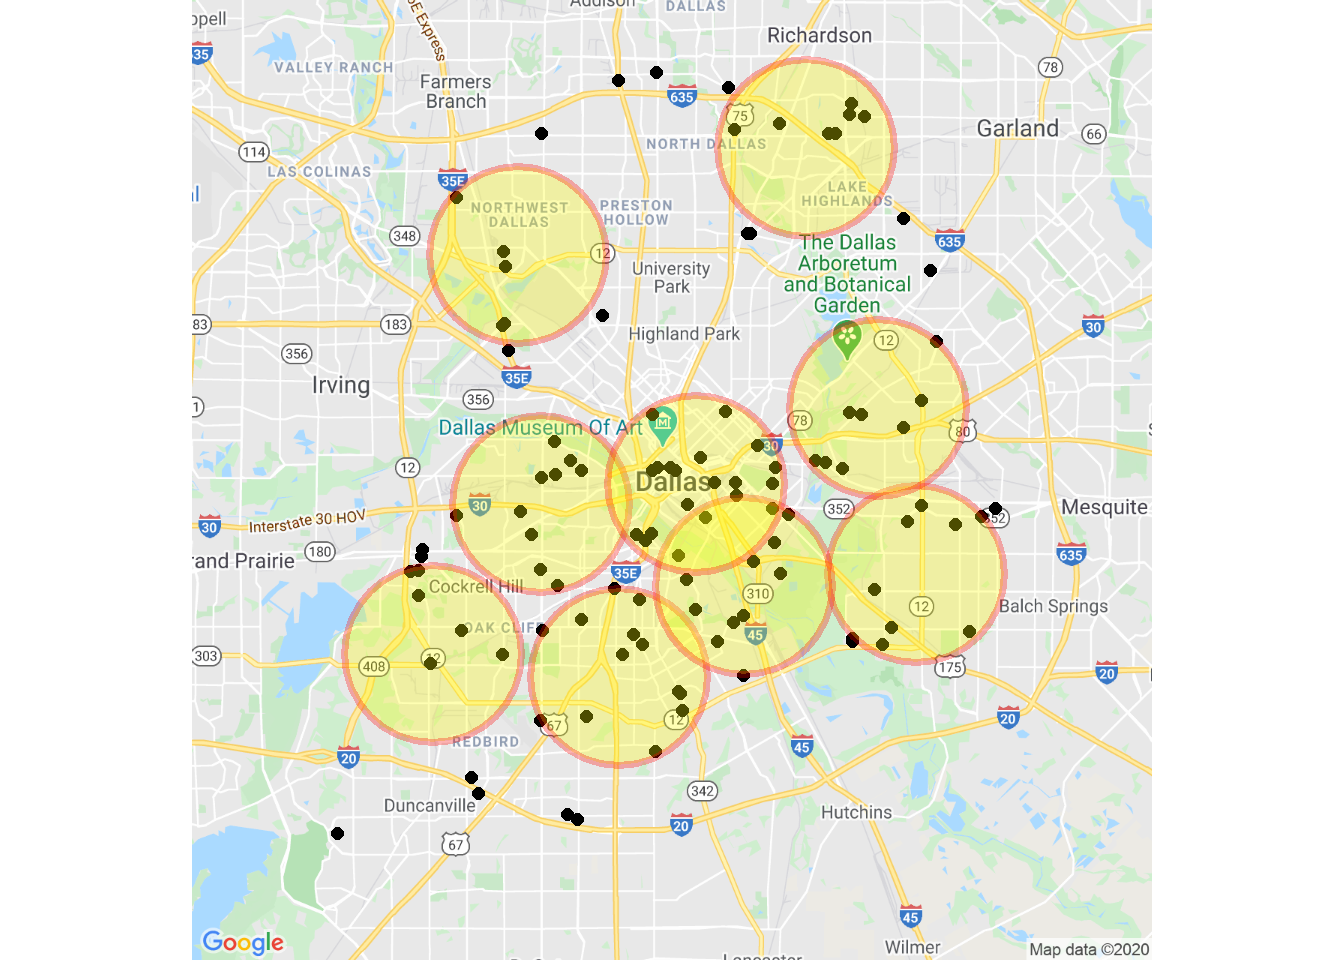
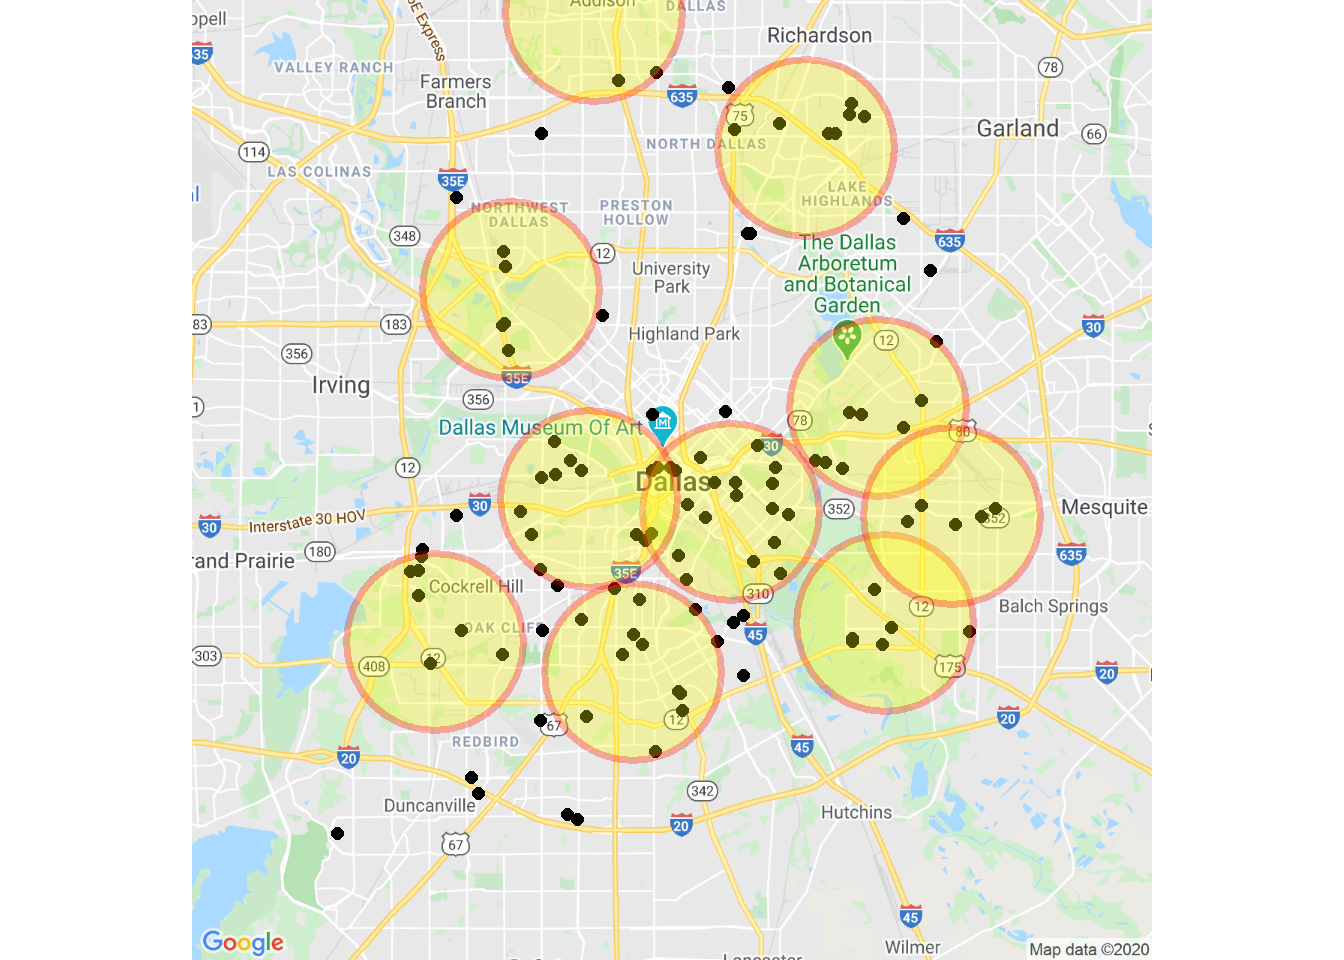
New plot

Changed region(s): [[0.25, 0.1562, 0.7812, 0.8125], [0.375, 0.0, 0.5312, 0.125]]

diff --git a/content/post/2020-12-22-mapping-murders-in-dallas/index.html b/content/post/2020-12-22-mapping-murders-in-dallas/index.html
@@ -12,14 +12,15 @@ tags: []
 <script src="index_files/anchor-sections/anchor-sections.js"></script>
 
 
-<p><img src="index_files/figure-html/Plot%20Using%20the%20Maps-1.png" width="672" /></p>
+<p>Let’s take a look at the Dallas murders on a map for each year.
+<img src="index_files/figure-html/Plot%20Using%20the%20Maps-1.png" width="672" /></p>
+<p>Let’s take a look at the murders just for 2020.</p>
 <pre><code>## Warning: Removed 3 rows containing missing values (geom_point).</code></pre>
-<p><img src="index_files/figure-html/Plot%20Using%20the%20Maps-2.png" width="672" /></p>
+<p><img src="index_files/figure-html/2020Only-1.png" width="672" /></p>
 <p>Cluster analysis</p>
 <pre><code>## Warning: Removed 3 rows containing missing values (geom_point).</code></pre>
-<pre><code>## Warning: Removed 1 rows containing missing values (geom_point).</code></pre>
 <p><img src="index_files/figure-html/Cluster%20Analysis-1.png" width="672" /></p>
 <p><img src="index_files/figure-html/Plot%20the%20anmination-1.gif" /><!-- --></p>
-<p>ggmap citation:
+<p>Package “ggmap” citation:
 D. Kahle and H. Wickham. ggmap: Spatial Visualization with ggplot2. The R Journal, 5(1), 144-161.
 URL <a href="http://journal.r-project.org/archive/2013-1/kahle-wickham.pdf" class="uri">http://journal.r-project.org/archive/2013-1/kahle-wickham.pdf</a></p>
